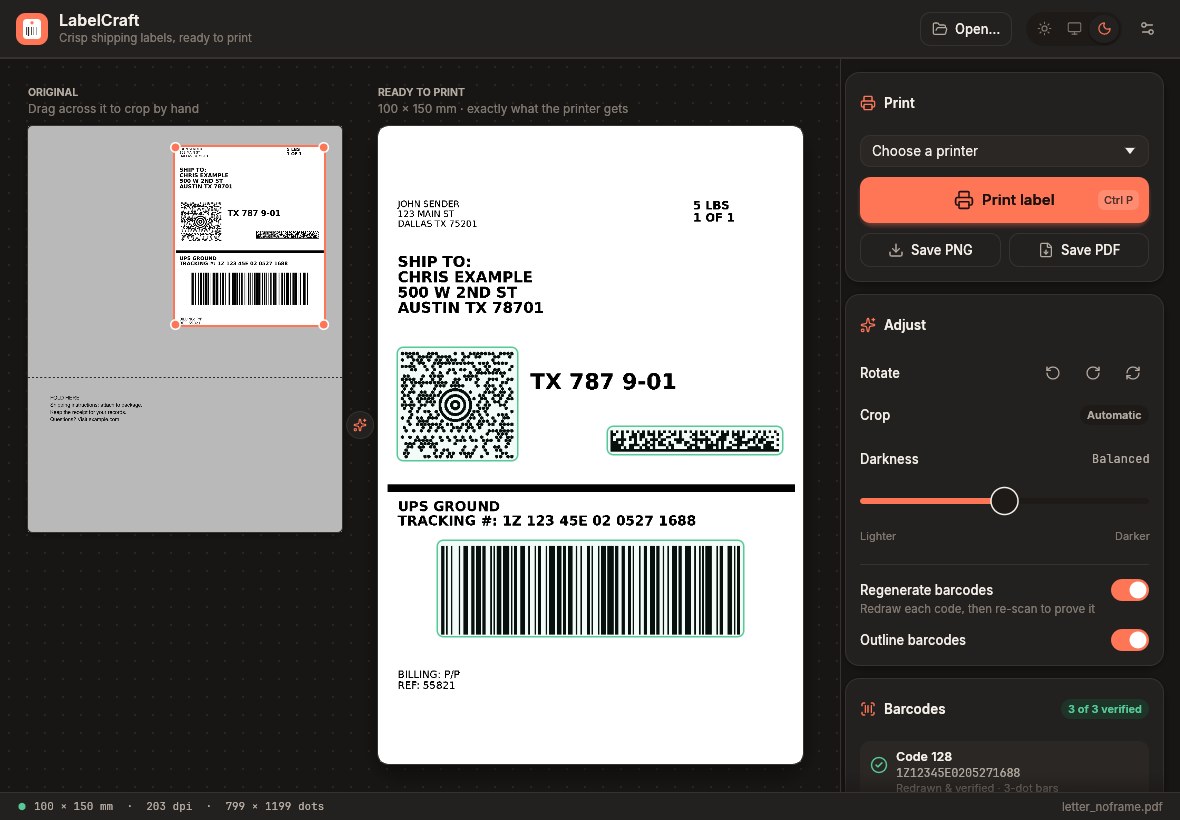
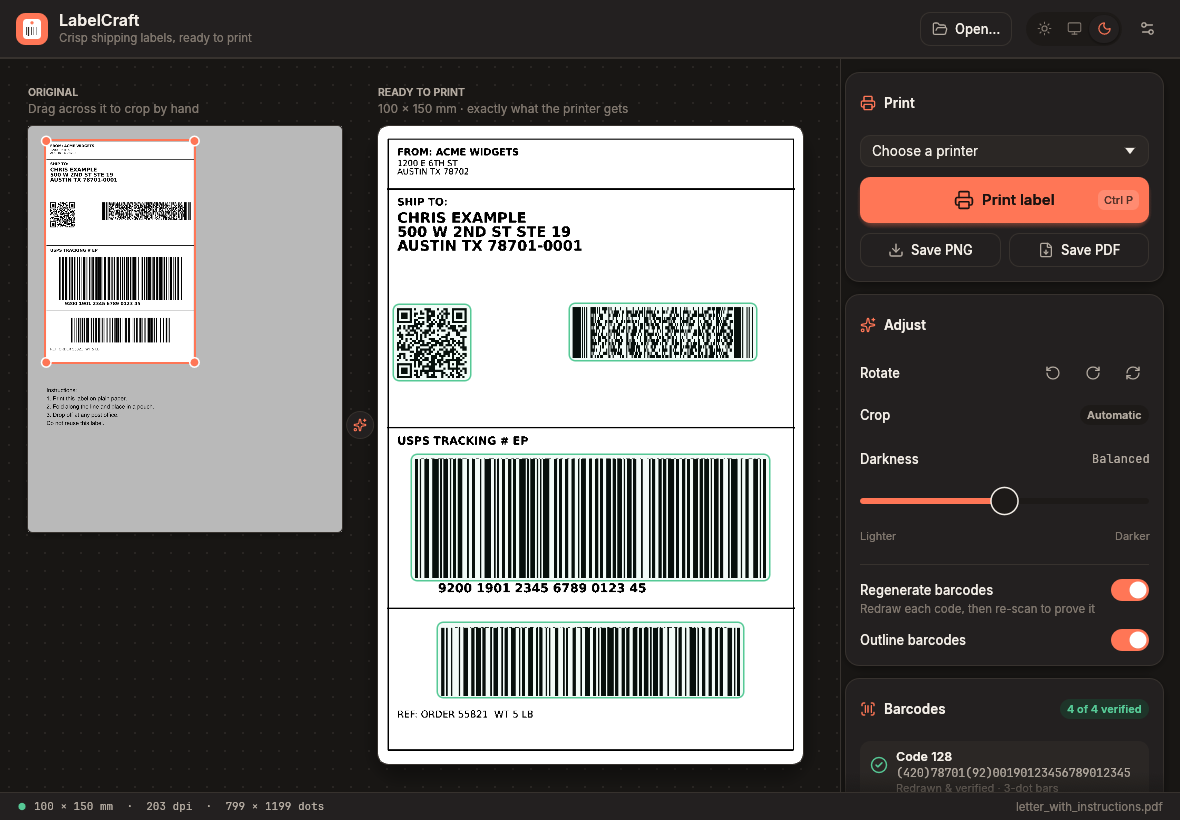
README: show only current (0.3) screenshots
Retake the light and dark hero shots on 0.3.0 and drop the 0.1 screenshot.

Claude-Session: https://claude.ai/code/session_015CUboy1Ee8K3TJLcikqUgy

diff --git a/README.md b/README.md
@@ -4,18 +4,11 @@ Drop in a shipping label (PDF, PNG, or JPG) and get a print-ready 100 × 150 mm 
 203-dpi thermal printer (built for the PeriPage PB41). Then print it straight from the app.
 
 <p>
-  <img src="docs/screenshot-light.png" alt="LabelCraft in light mode: the original letter-size PDF on the left with the label cropped out, the print-ready 4x6 label on the right with its three barcodes outlined in green, and the Print, Adjust and Barcodes cards on the right" width="49%">
+  <img src="docs/screenshot-light.png" alt="LabelCraft in light mode: the original letter-size PDF on the left with the label cropped out, the print-ready 4x6 label on the right with its four barcodes outlined in green, and the Print, Adjust and Barcodes cards on the right" width="49%">
   <img src="docs/screenshot-dark.png" alt="The same LabelCraft window in dark mode" width="49%">
 </p>
 
-*Light and dark themes, shown with a made-up test label. It follows your system setting, or pick one with the sun / monitor / moon switch.*
-
-<details>
-<summary>On a real USPS Ground Advantage label (personal details blacked out)</summary>
-
-![LabelCraft 0.1 with a real USPS label, personal details blacked out](docs/screenshot.png)
-
-</details>
+*LabelCraft 0.3 in the Paper and Night Shift themes, shown with a made-up test label. It follows your system setting, or pick a mode with the sun / monitor / moon switch and choose from 15 themes in Settings.*
 
 ## What it does
 
